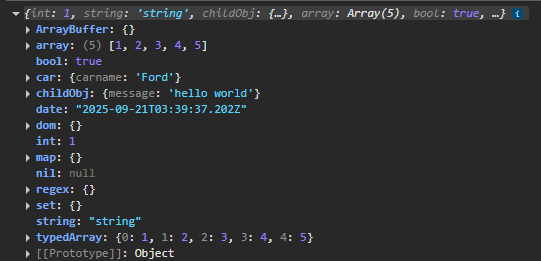
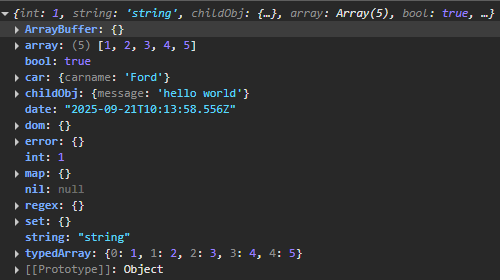
feat(nwr): error type for clone feat(nwr): clonse source object

Changed region(s): [[0.0, 0.0307, 0.99, 1.0]]

diff --git a/example/index.html b/example/index.html
@@ -27,9 +27,7 @@
         int: 1,
         string: "string",
         // func: () => { console.log("func") }, Function 不能被複製, 因為 throw error, 需要刪除
-        childObj: {
-            message: 'hello world'
-        },
+        childObj: { message: 'hello world' },
         array: [1, 2, 3, 4, 5],
         bool: true,
         nil: null,
@@ -44,6 +42,7 @@
         car: new car("Ford"),
         undefined: undefined,
         // dom: helloDiv, dom 不能被複製, 因為 throw error, 需要刪除
+        error: new Error('This is an error message'),
     }
 
     const clonedObj = structuredClone(obj);
@@ -54,9 +53,7 @@
         int: 1,
         string: "string",
         func: () => { console.log("func") },
-        childObj: {
-            message: 'hello world'
-        },
+        childObj: { message: 'hello world' },
         array: [1, 2, 3, 4, 5],
         bool: true,
         nil: null,
@@ -71,6 +68,7 @@
         car: new car("Ford"),
         undefined: undefined,
         dom: helloDiv,
+        error: new Error('This is an error message'),
     }
 
     const jsonClonedObj = JSON.parse(JSON.stringify(jsonObj));

diff --git a/slides.md b/slides.md
@@ -30,8 +30,6 @@ The last comment block of each slide will be treated as slide notes. It will be 
 -->
 
 ---
-transition: fade-out
----
 
 # What is structuredClone?
 
@@ -90,6 +88,32 @@ h1 + p {
    opacity: 1;
 }
 </style>
+---
+
+# structuredClone
+```js
+const obj = {
+    int: 1,
+    string: "string",
+    // func: () => { console.log("func") }, Function 不能被複製, 因為 throw error, 需要刪除
+    childObj: { message: 'hello world' },
+    array: [1, 2, 3, 4, 5],
+    bool: true,
+    nil: null,
+    map: new Map([['key1', 'value1'], ['key2', 'value2']]),
+    set: new Set([1, 2, 3, 4, 5]),
+    date: new Date(),
+    regex: /ab+c/i,
+    // symbol: Symbol('sym'), Symbol 不能被複製, 因為 throw error, 需要刪除
+    bigInt: BigInt(12345678901234567890),
+    ArrayBuffer: new ArrayBuffer(8),
+    typedArray: new Uint8Array([1, 2, 3, 4, 5]),
+    car: new car("Ford"),
+    undefined: undefined,
+    // dom: helloDiv, dom 不能被複製, 因為 throw error, 需要刪除
+    error: new Error('This is an error message'),
+}
+```
 
 ---
 
@@ -102,6 +126,33 @@ h1 + p {
    opacity: 1;
 }
 </style>
+
+---
+
+# JSON.parse(JSON.stringify(obj))
+```js
+const jsonObj = {
+    int: 1,
+    string: "string",
+    func: () => { console.log("func") },
+    childObj: { message: 'hello world' },
+    array: [1, 2, 3, 4, 5],
+    bool: true,
+    nil: null,
+    map: new Map([['key1', 'value1'], ['key2', 'value2']]),
+    set: new Set([1, 2, 3, 4, 5]),
+    date: new Date(),
+    regex: /ab+c/i,
+    symbol: Symbol('sym'),
+    // bigInt: BigInt(12345678901234567890), bigInt 不能被複製, 因為 throw error, 需要刪除
+    ArrayBuffer: new ArrayBuffer(8),
+    typedArray: new Uint8Array([1, 2, 3, 4, 5]),
+    car: new car("Ford"),
+    undefined: undefined,
+    dom: helloDiv,
+    error: new Error('This is an error message'),
+}
+
 ---
 
 # JSON.parse(JSON.stringify(obj))
